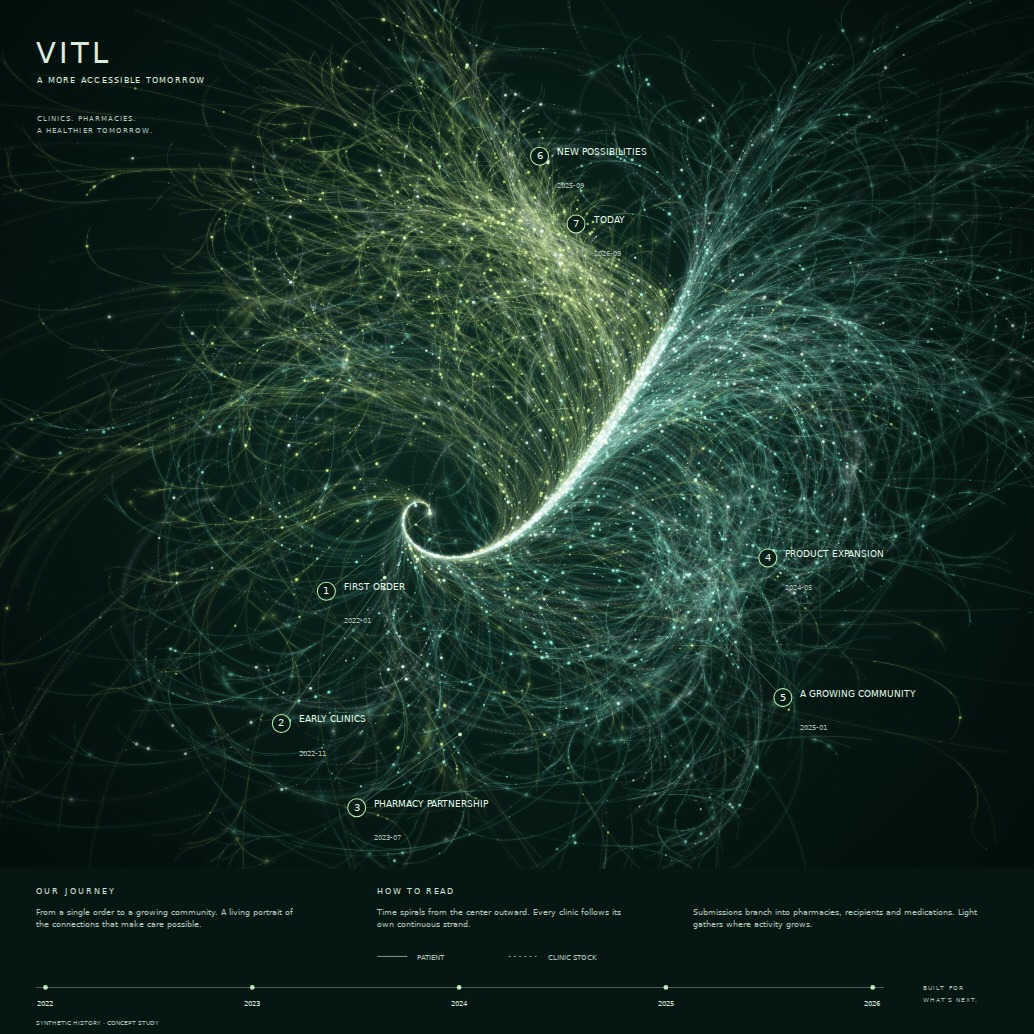
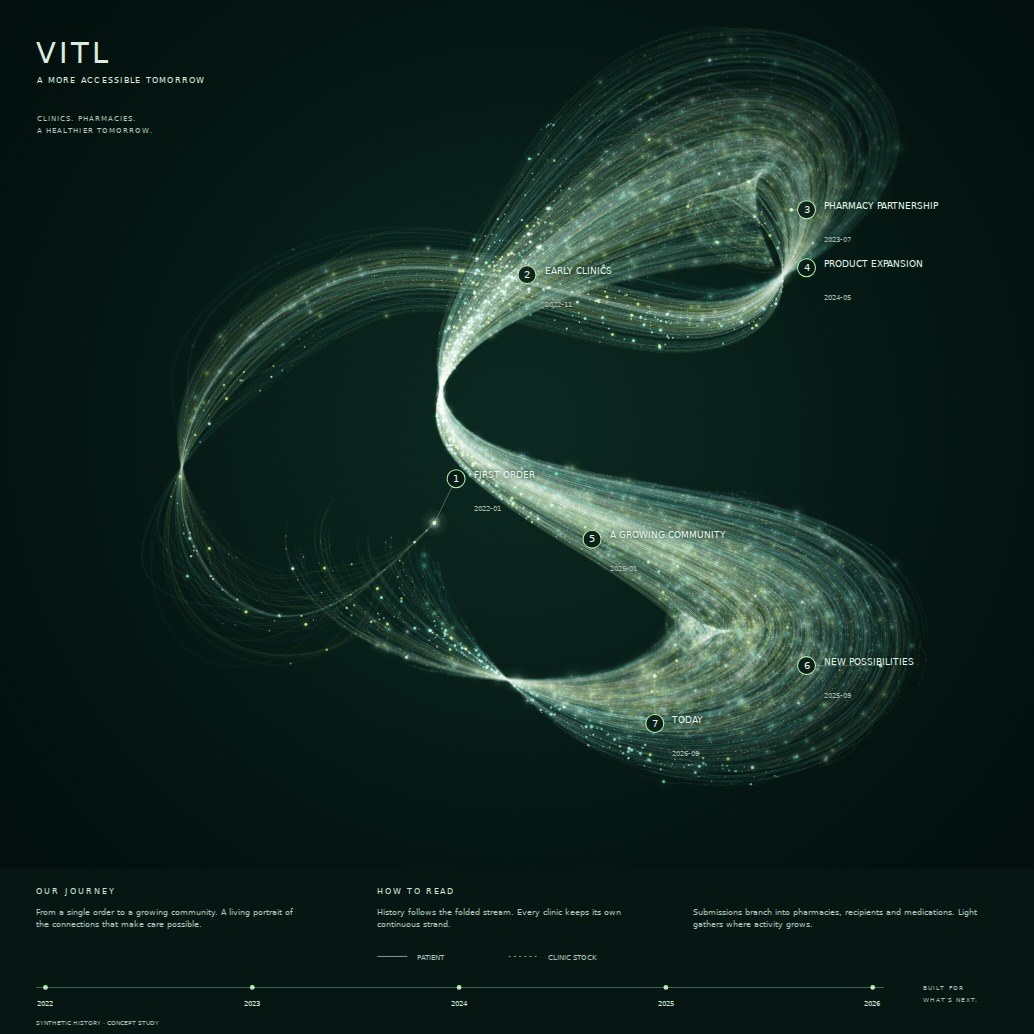
Shape history strands into coherent folded ribbons

diff --git a/index.html b/index.html
@@ -41,7 +41,7 @@
     </aside>
     <section class="workspace" aria-label="Artwork preview">
       <div class="canvas-heading"><span><i class="live-dot"></i> <span id="preview-title">VITL / STUDY 001</span></span><button id="view-art" class="text-button">Focus view <span aria-hidden="true">↗</span></button></div>
-      <div class="art-mount" id="art-mount"><canvas id="art" width="1400" height="1400" role="img" aria-label="A branching portrait of company history, with mint and citron strands tracing an outward spiral."></canvas><div id="render-indicator" class="render-indicator" hidden>Tracing the journey…</div></div>
+      <div class="art-mount" id="art-mount"><canvas id="art" width="1400" height="1400" role="img" aria-label="A branching portrait of company history, with mint and citron strands following a folded stream."></canvas><div id="render-indicator" class="render-indicator" hidden>Tracing the journey…</div></div>
       <div class="timeline"><button id="play" aria-label="Play company history" title="Play company history">▶</button><div class="timeline-control"><div class="timeline-label"><span id="start-date">2022-01</span><strong id="through-label">2026-09 · present</strong></div><input id="through" type="range" min="0" max="1" step="0.01" value="1" aria-label="History through month"></div></div>
       <div class="stats" aria-label="History statistics"><div><strong id="count-submissions">—</strong><span>submissions drawn</span></div><div><strong id="count-clinics">—</strong><span>active clinic strands</span></div><div><strong id="count-pharmacies">—</strong><span>pharmacies in history</span></div><div><strong id="count-tracks">—</strong><span>connected trajectories</span></div></div>
       <p id="status" role="status" aria-live="polite">Preparing your first study…</p><p id="error" role="alert" hidden></p>

diff --git a/docs/rendering.md b/docs/rendering.md
@@ -2,26 +2,25 @@
 
 ## Visual intent
 
-The reference is a square editorial print with a near-black green atmosphere, a compact asymmetric spiral, curving outward streams, fine branching detail, mint/citron/ivory light, selective glow and foreground defocus. The artwork is generated procedurally; the reference is not embedded and no generated background image is used.
+The original VITL reference establishes a near-black green atmosphere, fine luminous strands, mint/citron/ivory light and an editorial print layout. The later flow references emphasize coherent sheets, broad folds, overlaid loops, narrow passages and deliberate negative space. The artwork is generated procedurally; reference images are not embedded and no generated background image is used.
 
-The revised geometry replaces the large central spiral with a small curl that gradually unwinds into the upper-right stream. Branches follow that stream before separating. Recent activity adds density along its later stretch. There are no fixed destination corridors pulling strands back across their parent flow.
-
-Renderer 1.2 adds three seeded flow groups with opposing sweeps, variable curl onset and strand reach, and stronger depth separation. Smooth release preserves the inherited heading at every junction. Fine secondary branches overlap broad arcs with different lengths, breaking up the single dominant plume. These flow groups are composition choices, not measured business categories. No extra submissions or branches are invented.
+Renderer 1.3 replaces independently curling plumes with a shared, folded ribbon surface. Long strands and short branches travel through the same larger bends. The surface twists in depth and alternates between narrow and broad regions; detail stays near those regions rather than spreading uniformly across the image. Three softly overlapping lane groups and seeded offsets vary the sheet's density without adding entities. The macro form is an artistic composition, not a measured business shape.
 
 ## Geometry
 
-Each clinic follows its own chronological lane, from joining through the selected cutoff. Lane radii stay positive and expand, so inner lanes cannot fold across the origin. Each submission starts at an interpolated point on its clinic's actual drawn path.
+A C2 natural cubic guide defines the main form. Each clinic has a separate lane along it, starting at its joining month and ending at the selected cutoff. The ribbon's cross-section rotates in 3D, so projected strands can cross or compress while remaining separate in space.
 
-Every branch, including submissions, inherits the exact parent segment's forward heading. It initially follows the parent's curvature, then smoothly releases into its own curl. The curvature transition uses an integrated smoothstep; the first edge has no angular jump. Pharmacy, recipient and medication branches use the same rule. Pharmacy keys affect fulfillment curvature. Medication counts modestly influence reach as well as the explicit number of leaves.
+Every submission begins at its actual clinic polyline. Pharmacy, recipient and medication branches begin at interpolated positions on their actual parent. A quintic release eases each child into a nearby lane on the same surface. A small local correction matches the first drawn edge exactly to its parent's forward tangent. Descendants inherit their parent's lane changes, so the branching hierarchy stays spatially coherent.
 
-The first-order light and first milestone attach to the first matching submission instead of a disconnected fixed center point.
+Submission months determine where branches begin along the clinic path. Child length and continuation along the ribbon are artistic choices; they do not represent future events or additional elapsed time. Medication counts determine the explicit number of leaves. Pharmacy keys affect local lane separation. All supplied entities still have their own trajectories, subject to the disclosed submission budget.
+
 Every entity uses its own seeded random generator. Reordering clinics, pharmacies or submissions does not change the geometry. Direct-JSON fulfillment and recipient array order is part of the input; preserve it to reproduce a study. The renderer does not accumulate frames, so export output is independent of how long the app has been open.
 
 ## Light and depth
 
 The compositor combines constant-width cores, low-opacity halo passes, seeded point lights along those curves, decorative grain and a vignette. Solid/dashed core texture distinguishes patient and stock submissions. Paths have butt ends rather than opacity tapers. Geometry remains visible with bloom off.
 
-Depth is a stylized cue that softens selected traces and enlarges their lights. **It is not a physical thin-lens or path-traced depth-of-field simulation.** Depth, palette, point lights and atmospheric grain do not encode extra business facts.
+Depth is a stylized cue that softens traces and enlarges their lights. Renderer 1.3 evaluates line softness along short sections of each path, allowing a folded strand to pass through focus. Dashed stock paths maintain their dash phase across sections. **It is not a physical thin-lens or path-traced depth-of-field simulation.** Depth, palette, point lights and atmospheric grain do not encode extra business facts.
 
 ## Exports
 
@@ -29,10 +28,10 @@ The master is square. The poster reserves its bottom 16% for reading instruction
 
 Exports redraw the same paths and lights at the selected resolution, not an enlarged screenshot. PNG `pHYs` metadata specifies 300 dpi. A 7,200-pixel image is 24 inches at 300 dpi or 30 inches at 240 dpi. The browser produces RGB PNG, not a printer-specific color separation. Verify a proof with the intended paper and printing service. The largest export may exceed a mobile browser's memory, so smaller export options remain available.
 
-New projects use renderer 1.2.0. Saved 1.0.0 and 1.1.0 projects retain their original geometry; **Reset style** adopts the current renderer. Project files reproduce geometry and settings for the indicated renderer version. Font rasterization and Canvas antialiasing can vary by browser and operating system; byte-identical PNGs across engines are not promised. System sans-serif fonts are used without network font requests.
+New projects use renderer 1.3.0. Saved 1.0.0, 1.1.0 and 1.2.0 projects retain their original geometry; **Reset style** adopts the current renderer. Project files reproduce geometry and settings for the indicated renderer version. Font rasterization and Canvas antialiasing can vary by browser and operating system; byte-identical PNGs across engines are not promised. System sans-serif fonts are used without network font requests.
 
 ## Verification
 
-Node tests check exact multi-pharmacy hierarchy counts, finite positions, exact parent/child attachment and forward departure angles at every branch level, positive expanding clinic lanes, deterministic geometry, timeline cutoff, sampling disclosure, medication-count counterfactuals, rejected input, current and legacy project round trips, CSV grouping/key removal and PNG density metadata.
+Node tests check exact multi-pharmacy hierarchy counts, finite positions, exact parent/child attachment and forward departure angles at every branch level, a framed ribbon silhouette and separate clinic lanes in 3D, deterministic geometry, timeline cutoff, sampling disclosure, medication-count counterfactuals, rejected input, current and legacy project round trips, CSV grouping/key removal and PNG density metadata.
 
 The optional browser script exercises real imports, seed changes, project save/reopen, PNG downloads, main-thread fallback, worker rendering, mobile layout and full-size export. The browser report records the tested environment and external network requests. Preview and test fixtures use synthetic data exclusively.

diff --git a/readme.md b/readme.md
@@ -1,6 +1,6 @@
 # Cowpaths
 
-A generative-art studio for turning company history into luminous, branching strands. The VITL study uses a small curl that unfurls into a rising stream, flowing plumes, hairline paths, mint/citron light, soft depth, and a print-oriented editorial layout.
+A generative-art studio for turning company history into luminous, branching strands. The VITL study uses a shared surface of flowing ribbons, broad folds and open loops, hairline paths, mint/citron light, soft depth, and a print-oriented editorial layout.
 
 ![Synthetic VITL history rendered by Cowpaths](docs/preview.jpg)
 
@@ -55,14 +55,14 @@ Keep raw exports outside this public repository. `private-data/` and `*.local.js
 | --- | --- |
 | Clinic and joining month | One persistent lane, beginning at its joining month |
 | Submission and month | One branch leaving that clinic at its chronological position |
-| Pharmacy fulfillment | A child branch with pharmacy-dependent curvature |
+| Pharmacy fulfillment | A child branch with pharmacy-dependent lane separation |
 | Recipient in that fulfillment | A child branch; no identity is needed |
 | Medication count | One terminal branch per counted medication |
 | Patient / clinic-stock shipment | Solid / dashed path cores |
 | More activity | More overlapping actual trajectories and light |
 | Public milestone | Numbered leader anchored to that month |
 
-This is an artistic encoding, not a quantitative dashboard. Path length, depth, three flow groups, free curls, light particles and palette variation are composed rather than measured. Recipient counts describe fulfillment recipients, **not distinct patients across the company**. Grain and point lights are decorative, not additional submissions. See [rendering notes](docs/rendering.md) for the explicit limits.
+This is an artistic encoding, not a quantitative dashboard. Path length, depth, ribbon shape and lane groups, light particles and palette variation are composed rather than measured. Recipient counts describe fulfillment recipients, **not distinct patients across the company**. Grain and point lights are decorative, not additional submissions. See [rendering notes](docs/rendering.md) for the explicit limits.
 
 ## Original particle experiment
 
@@ -79,7 +79,7 @@ The historical dependency set is preserved. The new studio does not import it. O
 
 ## Verification
 
-`npm test` runs thirteen contracts covering hierarchy counts, branch attachment and departure angles, expanding clinic lanes, determinism, timeline cutoffs, sampling, medication-count changes, input rejection, current and legacy project round trips, CSV conversion and PNG density metadata.
+`npm test` runs fourteen contracts covering hierarchy counts, branch attachment and departure angles, separate clinic lanes and a framed ribbon silhouette, determinism, timeline cutoffs, sampling, medication-count changes, input rejection, current and legacy project round trips, CSV conversion and PNG density metadata.
 
 An optional browser integration check requires a separately supplied Playwright installation and Chromium binary:
 
@@ -95,7 +95,8 @@ It checks the worker and fallback renderer, imports, invalid-file handling, proj
 | --- | --- |
 | `src/journey/data.mjs` | Input validation and synthetic history |
 | `src/journey/scene.mjs` | Deterministic hierarchy and current geometry |
-| `src/journey/scene-v1.mjs` | Original geometry for saved 1.0.0 projects |
+| `src/journey/ribbon.mjs` | Shared 3D ribbon and smooth attached branches |
+| `src/journey/scene-v1.mjs`, `scene-v2.mjs` | Geometry compatibility for saved 1.0–1.2 projects |
 | `src/journey/render.mjs` | Strands, light, labels and poster layout |
 | `src/journey/worker.mjs` | Background rendering and PNG encoding |
 | `src/journey/project.mjs` | Project format and print-density metadata |

diff --git a/docs/data-format.md b/docs/data-format.md
@@ -91,6 +91,6 @@ The adapter deliberately does not guess a database query. Select production tabl
 
 ## Projects
 
-**Save project** writes a `cowpaths-project` object with version 1, renderer version 1.2.0 for new studies, validated history and composition settings. Reopen it with the same input control. It contains a copy of the history. No browser storage is used, so save before closing the tab if you want to retain your study.
+**Save project** writes a `cowpaths-project` object with version 1, renderer version 1.3.0 for new studies, validated history and composition settings. Reopen it with the same input control. It contains a copy of the history. No browser storage is used, so save before closing the tab if you want to retain your study.
 
-Projects saved with renderer 1.0.0 or 1.1.0 reopen with their original flow. Choose **Reset style** to adopt the current geometry and default composition settings, then save a new project. Unsupported or conflicting renderer versions are rejected.
+Projects saved with renderer 1.0.0, 1.1.0 or 1.2.0 reopen with their original flow. Choose **Reset style** to adopt the current geometry and default composition settings, then save a new project. Unsupported or conflicting renderer versions are rejected.
